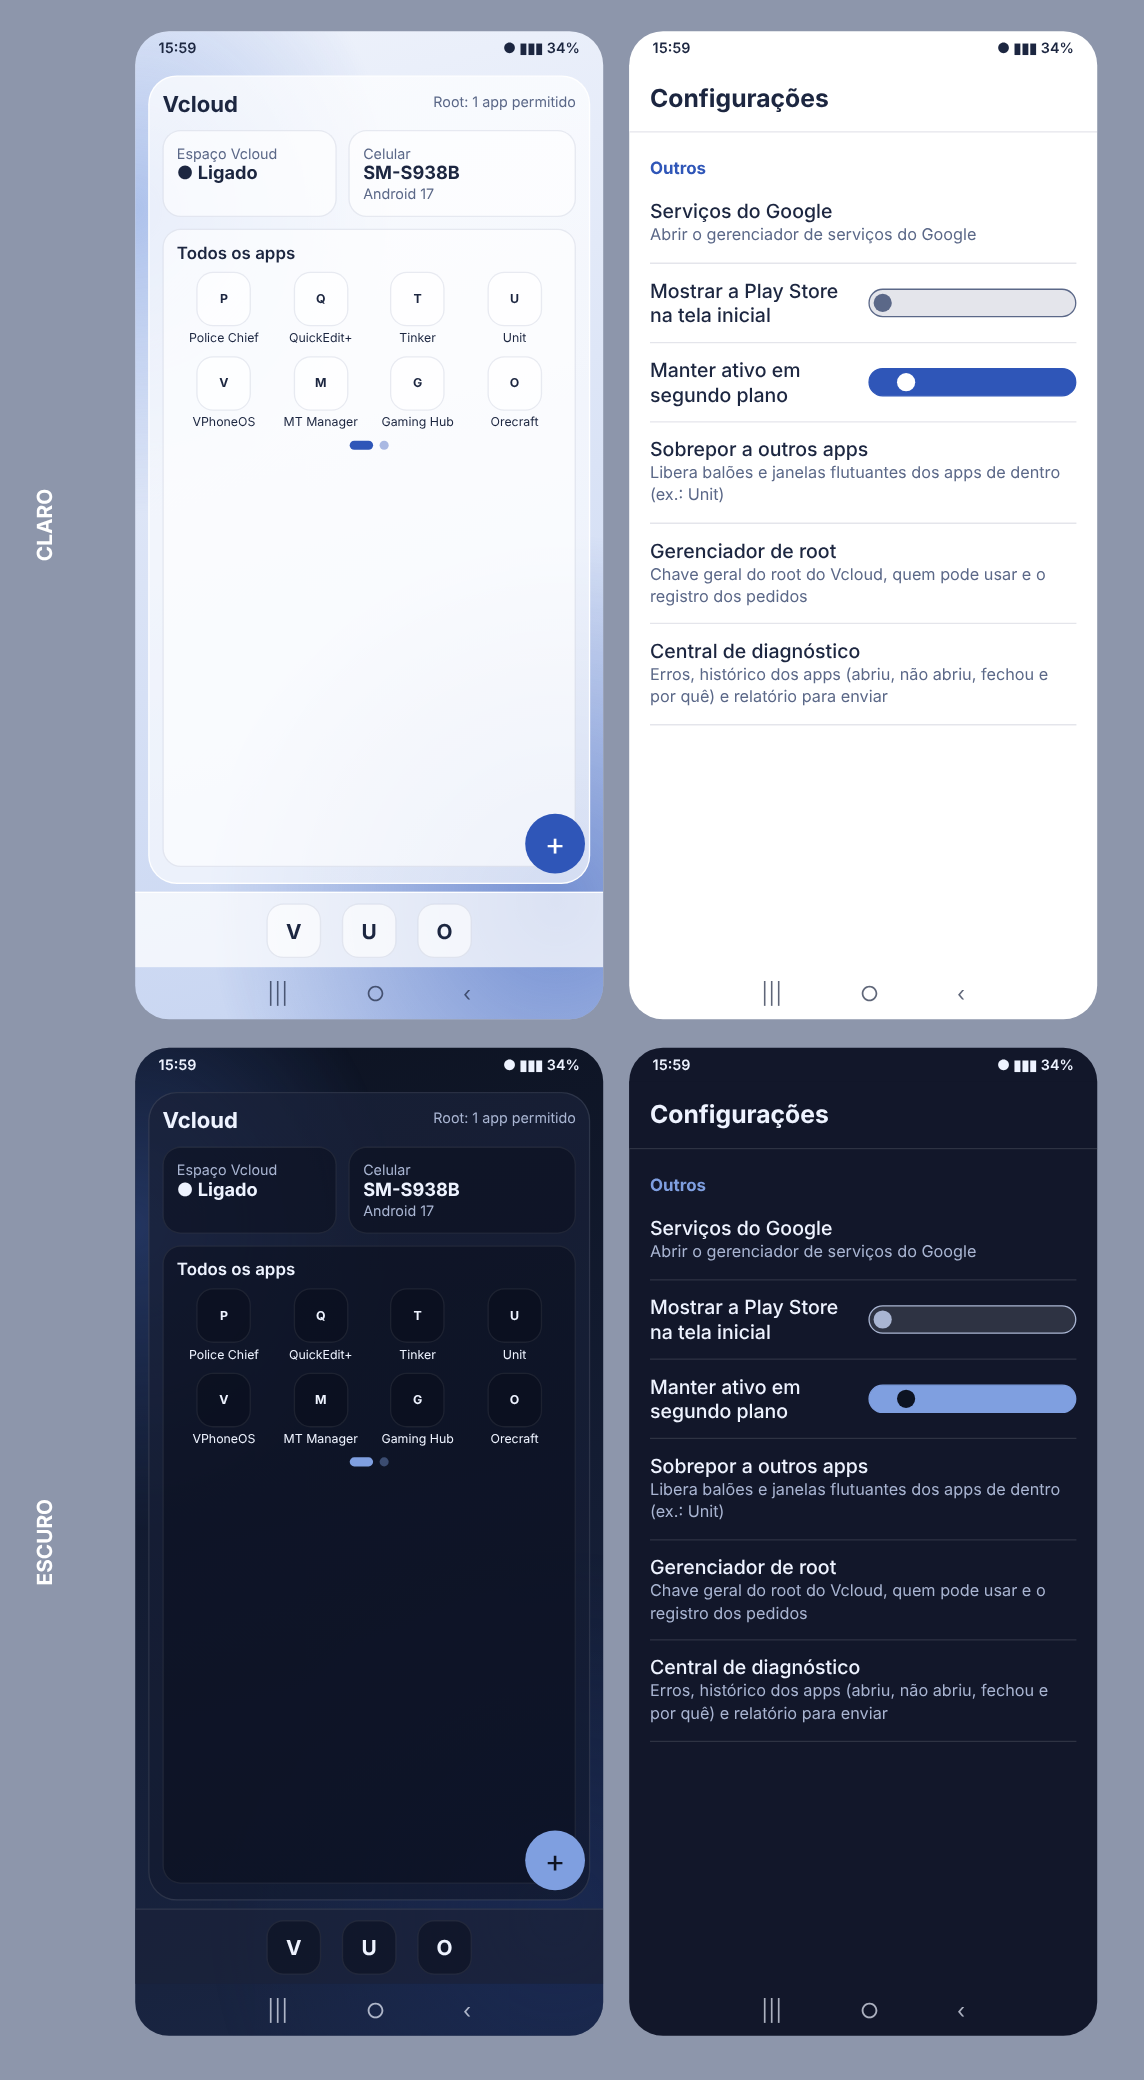
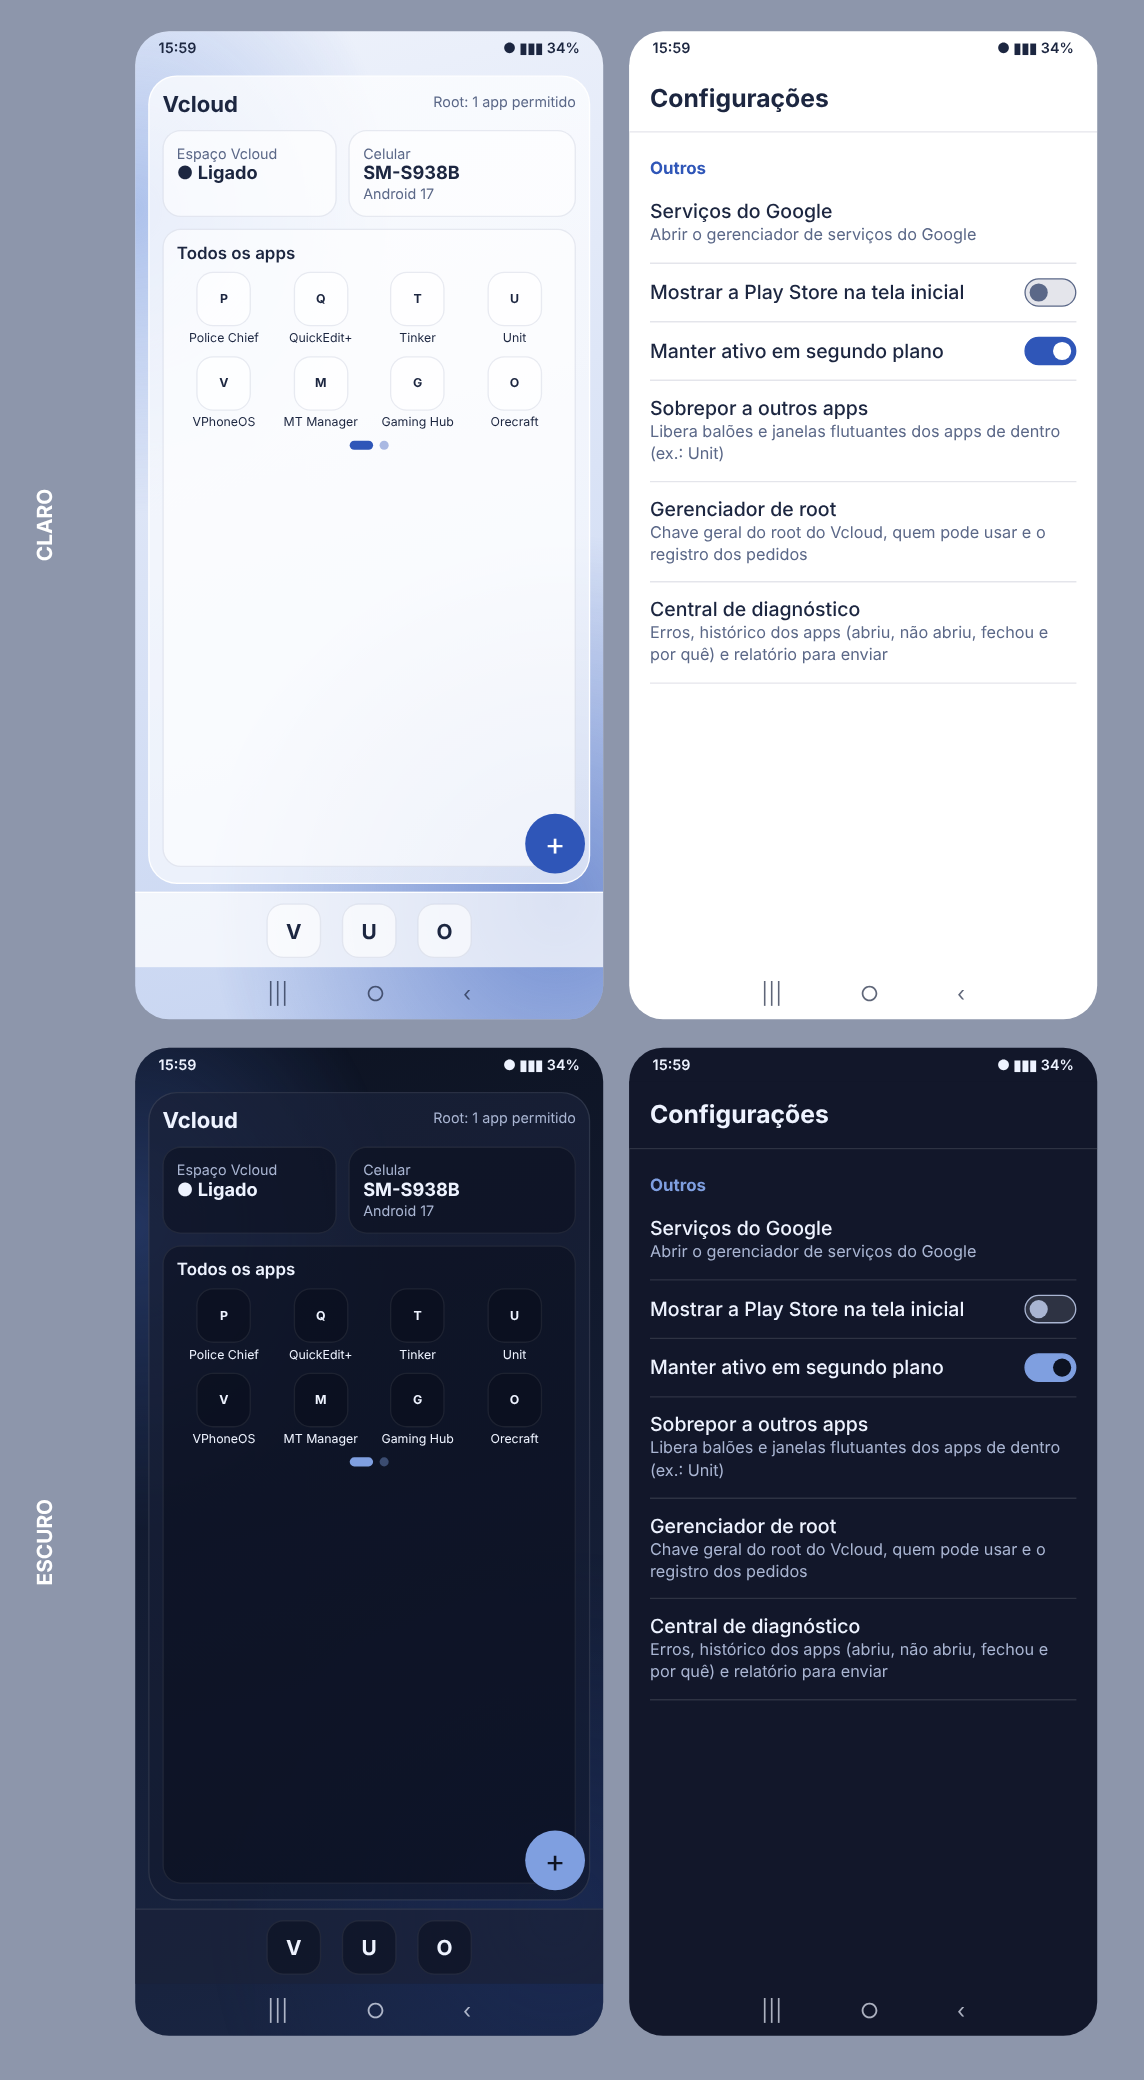
docs: amostras com chaves liga/desliga no tamanho certo
Claude-Session: https://claude.ai/code/session_01GpUZBH1bWqUku5z28bpgZD

diff --git a/docs/design/amostra-1.html b/docs/design/amostra-1.html
@@ -9,8 +9,8 @@ body{background:#8d96ab;display:flex;gap:22px;padding:24px;width:max-content}
 .body{position:absolute;top:78px;left:0;right:0;bottom:40px;padding:6px 16px;overflow:hidden}
 .cat{font-size:13px;font-weight:700;color:var(--primary);margin:14px 0 4px}
 .pf{padding:11px 0;border-bottom:1px solid var(--surface_line)}.pf b{display:block;font-size:15px;font-weight:500}.pf span{display:block;font-size:12.5px;color:var(--secondary_text);margin-top:2px;line-height:1.35}
-.pf.sw{display:flex;align-items:center;gap:10px}.pf.sw div{flex:1}
-.sw1{width:40px;height:22px;border-radius:11px;background:var(--surface_line);border:1px solid var(--secondary_text);position:relative}.sw1::after{content:"";position:absolute;top:3px;left:3px;width:14px;height:14px;border-radius:50%;background:var(--secondary_text)}
+.pf.sw{display:flex;align-items:center;gap:10px}.pf.sw>div:first-child{flex:1}
+.sw1{flex:none;width:40px;height:22px;border-radius:11px;background:var(--surface_line);border:1px solid var(--secondary_text);position:relative}.sw1::after{content:"";position:absolute;top:3px;left:3px;width:14px;height:14px;border-radius:50%;background:var(--secondary_text)}
 .sw1.on{background:var(--primary);border-color:var(--primary)}.sw1.on::after{left:21px;background:var(--on_primary)}
 .btn{flex:1;text-align:center;padding:9px 4px;border-radius:20px;border:1px solid var(--secondary_text);font-size:13px;font-weight:600;color:var(--primary)}
 .rowb{display:flex;gap:8px;margin:6px 0 10px}

diff --git a/docs/design/amostra-2.html b/docs/design/amostra-2.html
@@ -9,8 +9,8 @@ body{background:#8d96ab;display:flex;gap:22px;padding:24px;width:max-content}
 .body{position:absolute;top:78px;left:0;right:0;bottom:40px;padding:6px 16px;overflow:hidden}
 .cat{font-size:13px;font-weight:700;color:var(--primary);margin:14px 0 4px}
 .pf{padding:11px 0;border-bottom:1px solid var(--surface_line)}.pf b{display:block;font-size:15px;font-weight:500}.pf span{display:block;font-size:12.5px;color:var(--secondary_text);margin-top:2px;line-height:1.35}
-.pf.sw{display:flex;align-items:center;gap:10px}.pf.sw div{flex:1}
-.sw1{width:40px;height:22px;border-radius:11px;background:var(--surface_line);border:1px solid var(--secondary_text);position:relative}.sw1::after{content:"";position:absolute;top:3px;left:3px;width:14px;height:14px;border-radius:50%;background:var(--secondary_text)}
+.pf.sw{display:flex;align-items:center;gap:10px}.pf.sw>div:first-child{flex:1}
+.sw1{flex:none;width:40px;height:22px;border-radius:11px;background:var(--surface_line);border:1px solid var(--secondary_text);position:relative}.sw1::after{content:"";position:absolute;top:3px;left:3px;width:14px;height:14px;border-radius:50%;background:var(--secondary_text)}
 .sw1.on{background:var(--primary);border-color:var(--primary)}.sw1.on::after{left:21px;background:var(--on_primary)}
 .btn{flex:1;text-align:center;padding:9px 4px;border-radius:20px;border:1px solid var(--secondary_text);font-size:13px;font-weight:600;color:var(--primary)}
 .rowb{display:flex;gap:8px;margin:6px 0 10px}
